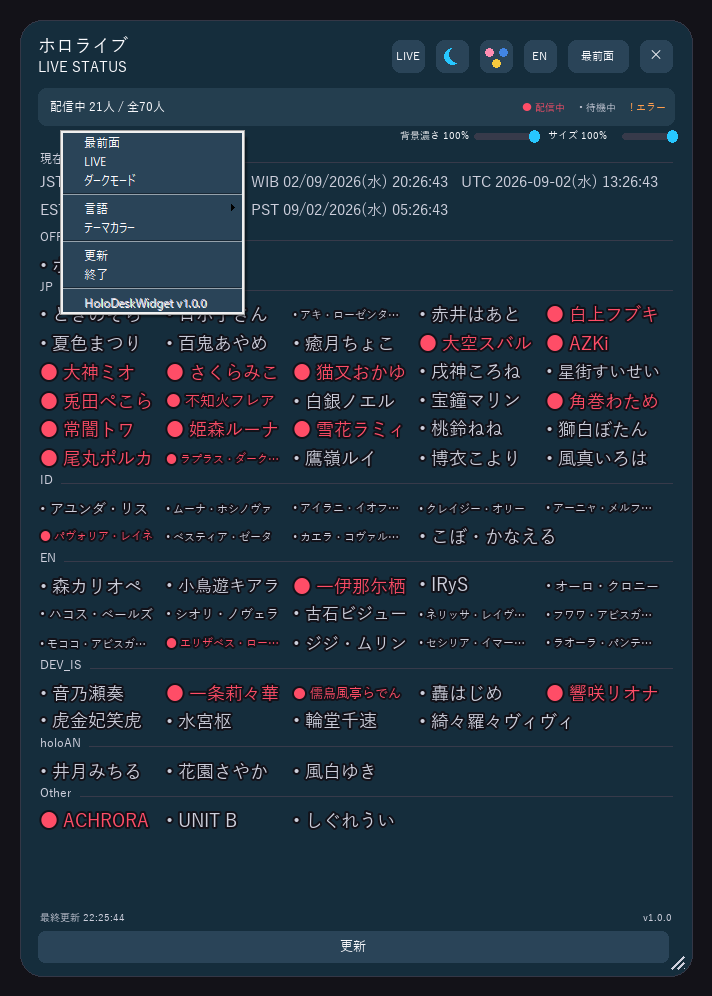
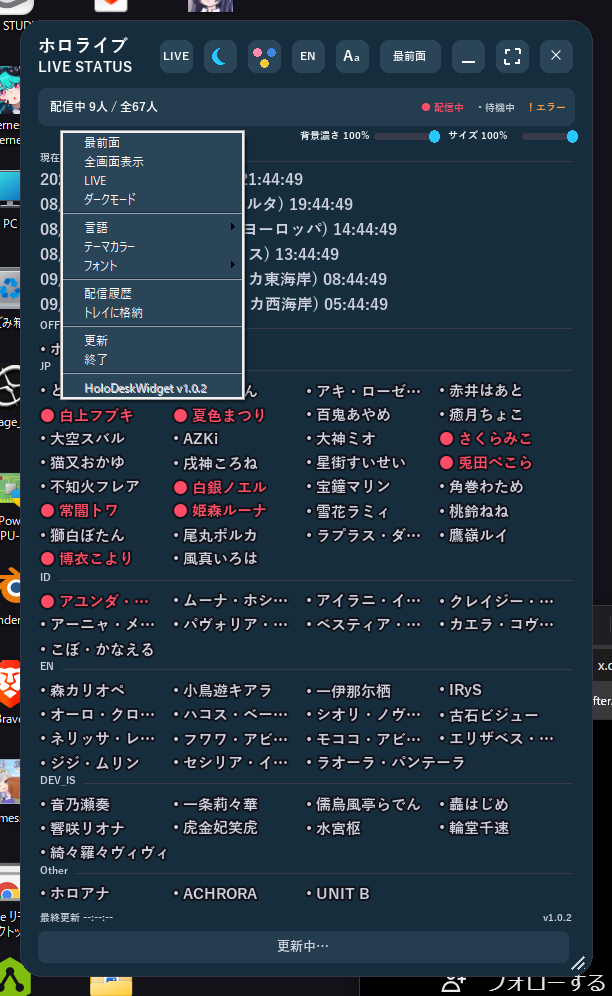
Add a screenshot-refresh skill and fix background bleed in capture_screenshots.py
Wraps tools/capture_screenshots.py so its shots always reflect
DEFAULT_SETTINGS instead of a developer's local settings.json, restoring
the original file afterward. Also fixes capture_screenshots.py itself:
declares DPI awareness, hides desktop icons for the capture (they sat
right under the widget's default x=40,y=40 position and showed through
its transparent corners since frozen_desktop only ever swapped the
wallpaper image), and shows an on-screen warning banner while it drives
the real mouse/keyboard.

diff --git a/tools/capture_screenshots.py b/tools/capture_screenshots.py
@@ -35,10 +35,23 @@ import subprocess
 import sys
 import tempfile
 import time
+import tkinter as tk
+import winreg
 from ctypes import wintypes
 from pathlib import Path
 
 from PIL import Image, ImageGrab
+
+# Must happen before any window/screen coordinates are touched below. Without
+# this, this process stays in Windows' legacy DPI-virtualized mode, where
+# GetWindowRect() and ImageGrab.grab() disagree on what a pixel is on any
+# display scaled above 100% -- the resulting bbox drifts from the widget's
+# real on-screen footprint, so captures bleed in whatever sits just outside
+# it (taskbar, other windows) instead of the frozen desktop color.
+try:
+    ctypes.windll.shcore.SetProcessDpiAwareness(2)  # PROCESS_PER_MONITOR_DPI_AWARE
+except (AttributeError, OSError):
+    ctypes.windll.user32.SetProcessDPIAware()
 
 ROOT = Path(__file__).resolve().parent.parent
 sys.path.insert(0, str(ROOT))
@@ -77,6 +90,10 @@ user32.mouse_event.argtypes = [wintypes.DWORD, wintypes.DWORD, wintypes.DWORD,
                                 wintypes.DWORD, ctypes.c_void_p]
 user32.keybd_event.argtypes = [ctypes.c_ubyte, ctypes.c_ubyte, wintypes.DWORD, ctypes.c_void_p]
 user32.SystemParametersInfoW.argtypes = [wintypes.UINT, wintypes.UINT, wintypes.LPCWSTR, wintypes.UINT]
+user32.FindWindowW.argtypes = [ctypes.c_wchar_p, ctypes.c_wchar_p]
+user32.FindWindowW.restype = ctypes.c_void_p
+user32.SendMessageW.argtypes = [ctypes.c_void_p, ctypes.c_uint, wintypes.WPARAM, wintypes.LPARAM]
+user32.SendMessageW.restype = ctypes.c_ssize_t
 
 MOUSEEVENTF_LEFTDOWN = 0x0002
 MOUSEEVENTF_LEFTUP = 0x0004
@@ -92,6 +109,12 @@ SPIF_SENDCHANGE = 0x02
 # real system menu of this class, so it can be located and cropped precisely
 # instead of guessing how far the context-menu screenshot needs to extend.
 MENU_WINDOW_CLASS = "#32768"
+# WM_COMMAND id Explorer's Desktop context menu sends for "Show desktop
+# icons" -- posting it to Progman toggles that checkbox exactly like
+# right-clicking the desktop and choosing it does, since there's no direct
+# GetDesktopIconsVisible()-style Win32 call.
+WM_COMMAND = 0x0111
+PROGMAN_TOGGLE_ICONS = 0x7402
 
 
 def get_window_rect(hwnd):
@@ -176,6 +199,93 @@ class frozen_desktop:
             try:
                 os.remove(self.temp_path)
             except OSError:
+                pass
+        return False
+
+
+def _desktop_icons_hidden():
+    try:
+        with winreg.OpenKey(
+            winreg.HKEY_CURRENT_USER,
+            r"Software\Microsoft\Windows\CurrentVersion\Explorer\Advanced",
+        ) as key:
+            value, _ = winreg.QueryValueEx(key, "HideIcons")
+            return bool(value)
+    except OSError:
+        return False  # key/value absent -- icons are shown, Explorer's own default
+
+
+def _toggle_desktop_icons():
+    progman = user32.FindWindowW("Progman", None)
+    if progman:
+        user32.SendMessageW(progman, WM_COMMAND, PROGMAN_TOGGLE_ICONS, 0)
+
+
+class hidden_desktop_icons:
+    """Desktop icons (This PC, Recycle Bin, ...) live in Windows' default
+    top-left icon grid -- right where the widget's own default position
+    (x=40, y=40, see deskwidget_core/config.py's DEFAULT_SETTINGS) puts it.
+    frozen_desktop only swaps the wallpaper *image*; icons are a separate
+    layer Explorer always draws on top of it, so without this they show
+    straight through the widget's transparent rounded corners in every shot.
+    Toggles the same "Show desktop icons" state the Desktop right-click menu
+    does, and only restores it on exit if entering here actually changed
+    anything -- a no-op if icons were already hidden coming in, so this
+    never leaves the user's desktop in a different state than it found it.
+    """
+
+    def __enter__(self):
+        self.toggled = False
+        if not _desktop_icons_hidden():
+            _toggle_desktop_icons()
+            self.toggled = True
+            time.sleep(0.3)
+        return self
+
+    def __exit__(self, exc_type, exc, tb):
+        if self.toggled:
+            _toggle_desktop_icons()
+        return False
+
+
+class capture_warning_banner:
+    """A always-on-top strip pinned to the very top of the primary screen
+    (y=0 through HEIGHT) for the whole capture run, telling whoever is at the
+    keyboard not to touch the mouse/keyboard while this script drives real
+    input. HEIGHT is kept comfortably below DEFAULT_SETTINGS["y"] (40 -- see
+    deskwidget_core/config.py) so this can never overlap the widget's own
+    default top-left corner and bleed into any grabbed region, regardless of
+    where on screen the widget ends up being captured.
+    """
+
+    HEIGHT = 32
+    BG = "#c0392b"
+    FG = "white"
+    TEXT = ("自動操作でスクリーンショットを撮影中です。"
+            "完了するまでマウス・キーボードに触れないでください。")
+
+    def __enter__(self):
+        self.root = None
+        try:
+            self.root = tk.Tk()
+            self.root.overrideredirect(True)
+            self.root.attributes("-topmost", True)
+            width = self.root.winfo_screenwidth()
+            self.root.geometry(f"{width}x{self.HEIGHT}+0+0")
+            self.root.configure(bg=self.BG)
+            tk.Label(self.root, text=self.TEXT, bg=self.BG, fg=self.FG,
+                     font=("Yu Gothic UI", 11, "bold")).pack(expand=True)
+            self.root.update()
+        except tk.TclError as error:
+            print(f"warning: could not show the capture warning banner ({error})")
+            self.root = None
+        return self
+
+    def __exit__(self, exc_type, exc, tb):
+        if self.root is not None:
+            try:
+                self.root.destroy()
+            except tk.TclError:
                 pass
         return False
 
@@ -267,7 +377,7 @@ def main():
     time.sleep(INITIAL_SETTLE_SECONDS)
 
     lang_toggled = False
-    with frozen_desktop():
+    with capture_warning_banner(), hidden_desktop_icons(), frozen_desktop():
         print("Capturing Japanese (default) screenshots...")
         rect, img = capture_main(hwnd, "")
         capture_buttons(rect[2] - rect[0], img, "")

diff --git a/.claude/skills/screenshots/scripts/refresh_screenshots.py b/.claude/skills/screenshots/scripts/refresh_screenshots.py
@@ -1,0 +1,97 @@
+"""Refresh HoloDeskWidget's documentation screenshots with the app's default
+settings.json state, then put back whatever settings.json held before.
+
+tools/capture_screenshots.py drives whichever widget instance is already
+running (or launches one) with whatever settings.json it finds on disk --
+great for a real user, but it means the shots can end up reflecting a
+developer's own window position/theme/language instead of the default state
+docs/Readme*.html actually documents. This wrapper:
+
+  1. closes any already-running instance (so a stale process holding old
+     settings in memory can't shadow the reset file below),
+  2. moves settings.json aside so the next launch falls back to
+     deskwidget_core.config.DEFAULT_SETTINGS whole-cloth,
+  3. runs the real capture script,
+  4. closes the instance it started, and
+  5. restores the original settings.json untouched (or removes the file
+     again if there wasn't one to begin with).
+
+Mirrors how capture_screenshots.py itself freezes/restores the desktop
+wallpaper around the shots -- same idea, applied to settings.json.
+
+Windows only, same as capture_screenshots.py. Only targets the Holo variant
+(the only one capture_screenshots.py currently knows how to drive).
+"""
+
+import ctypes
+import shutil
+import subprocess
+import sys
+import tempfile
+import time
+from pathlib import Path
+
+ROOT = Path(__file__).resolve().parents[4]
+sys.path.insert(0, str(ROOT))
+
+from deskwidget_core import appconfig  # noqa: E402
+from variants.holo.profile import PROFILE  # noqa: E402
+
+appconfig.configure(PROFILE)
+
+from deskwidget_core.paths import SETTINGS_PATH, WINDOW_TITLE  # noqa: E402
+from deskwidget_core.single_instance import find_window  # noqa: E402
+
+CAPTURE_SCRIPT = ROOT / "tools" / "capture_screenshots.py"
+CLOSE_TIMEOUT_SECONDS = 5.0
+
+WM_CLOSE = 0x0010
+_user32 = ctypes.WinDLL("user32", use_last_error=True)
+_user32.PostMessageW.argtypes = [ctypes.c_void_p, ctypes.c_uint, ctypes.c_void_p, ctypes.c_void_p]
+
+
+def close_widget_if_running():
+    """Best-effort close: posts WM_CLOSE to the widget's window (the same
+    message Windows sends on Alt+F4) and waits for the window to disappear.
+    A no-op if nothing is running."""
+    hwnd = find_window(WINDOW_TITLE, timeout=0)
+    if not hwnd:
+        return
+    _user32.PostMessageW(hwnd, WM_CLOSE, None, None)
+    deadline = time.monotonic() + CLOSE_TIMEOUT_SECONDS
+    while find_window(WINDOW_TITLE, timeout=0) and time.monotonic() < deadline:
+        time.sleep(0.2)
+
+
+def main():
+    if sys.platform != "win32":
+        raise SystemExit("This only runs on Windows.")
+
+    print("Closing any already-running HoloDeskWidget instance...")
+    close_widget_if_running()
+
+    backup_dir = Path(tempfile.mkdtemp(prefix="holodesk_settings_backup_"))
+    backup_path = backup_dir / "settings.json"
+    had_settings = SETTINGS_PATH.exists()
+    if had_settings:
+        shutil.move(str(SETTINGS_PATH), str(backup_path))
+        print("Set aside your current settings.json (restoring it when done).")
+    else:
+        print("No existing settings.json -- already starting from defaults.")
+
+    try:
+        print("Capturing with default settings...")
+        subprocess.run([sys.executable, str(CAPTURE_SCRIPT)], cwd=str(ROOT), check=True)
+    finally:
+        print("Closing the widget instance this launched...")
+        close_widget_if_running()
+        if had_settings:
+            shutil.move(str(backup_path), str(SETTINGS_PATH))
+            print("Restored your original settings.json.")
+        else:
+            SETTINGS_PATH.unlink(missing_ok=True)
+        backup_dir.rmdir()
+
+
+if __name__ == "__main__":
+    main()

diff --git a/.claude/skills/screenshots/SKILL.md b/.claude/skills/screenshots/SKILL.md
@@ -1,0 +1,105 @@
+---
+name: screenshots
+description: Refresh HoloDeskWidget's documentation screenshots/GIF (main.png, buttons.png, context_menu.png, live_ticker.gif, plus their _en counterparts) in variants/holo/docs/screenshots/, captured against the app's default settings.json state rather than whatever a developer's local window position/theme/language happens to be. Use whenever the user asks to update, refresh, retake, or regenerate the screenshots or the live ticker GIF, or "スクリーンショットを更新" / "スクショ撮り直し" and similar Japanese phrasing. Windows-only and Holo-variant-only (VT isn't wired up yet); moves the real mouse and briefly swaps the desktop wallpaper, so confirm with the user before running and ask them not to touch the mouse/keyboard while it's in progress.
+---
+
+# HoloDeskWidget screenshot refresh
+
+`tools/capture_screenshots.py` (see its own docstring for full detail) already
+launches or attaches to the widget, drives it with real mouse/keyboard input,
+and saves `main`/`buttons`/`context_menu` (+ `_en`) plus `live_ticker.gif`
+into `variants/holo/docs/screenshots/`. Left on its own it captures whatever
+`variants/holo/settings.json` currently holds -- which for a developer
+running the app locally is very likely *not* the default window
+position/theme/language that `docs/Readme.html` is meant to depict.
+
+This skill runs that script wrapped so the capture always reflects
+`deskwidget_core.config.DEFAULT_SETTINGS`, then puts the developer's own
+`settings.json` back exactly as it was.
+
+`tools/capture_screenshots.py` picked up three fixes the first time this
+skill actually ran end to end:
+
+- **DPI awareness** (`SetProcessDpiAwareness`, called before any
+  window/screen coordinate is touched) -- harmless and correct regardless,
+  though it turned out not to be the real cause of the bleed below.
+- **Desktop icons hidden for the duration** (`hidden_desktop_icons`, toggled
+  the same way the Desktop right-click menu's "Show desktop icons" does).
+  This was the actual cause: the widget's default position is `x=40, y=40`
+  (see `DEFAULT_SETTINGS` in `deskwidget_core/config.py`) -- right on top of
+  Windows' default top-left desktop icon grid. `frozen_desktop` only ever
+  swapped the *wallpaper image*; icons are a separate layer Explorer always
+  draws on top of it, so they showed straight through the widget's
+  transparent rounded corners in every shot regardless of the wallpaper
+  fix. Only restores icon visibility on exit if it actually hid them (a
+  no-op if the user already had icons hidden).
+- **A red always-on-top warning banner** pinned across the very top of the
+  screen (y=0..32, safely above the widget's y=40 default top edge so it can
+  never bleed into a grabbed region itself) reading "自動操作でスクリーンショット
+  を撮影中です。完了するまでマウス・キーボードに触れないでください。" for the whole
+  capture -- the script drives the real mouse/keyboard for ~20-40s and
+  someone at the machine needs an obvious, on-screen cue beyond terminal
+  output they may not be looking at.
+
+## Before running
+
+- **Confirm with the user first.** This takes over the real mouse cursor,
+  right-clicks and clicks buttons on the actual desktop, and briefly swaps
+  the wallpaper to a flat color (restored after). Tell them roughly what
+  will happen and ask them not to use the mouse/keyboard until it's done
+  (well under a minute).
+- **Holo only.** `tools/capture_screenshots.py` is hardcoded to the Holo
+  variant (`variants/holo/...`). If the user asks for VT screenshots, say
+  that the capture script would need to be re-pointed at `variants/vt`
+  first (its own docstring names the constants: `PROFILE`, `LAUNCH_SCRIPT`,
+  `OUT_DIR`) -- that's a code change beyond what this skill does on its own;
+  ask before making it.
+- Must run on Windows in a normal interactive desktop session (not a
+  remote/headless one) -- this repo's environment already is one.
+
+## Running it
+
+From the repo root, via the **PowerShell tool** (not Bash) -- it's driving a
+real GUI on the interactive desktop, same reasoning as `release_widget.bat`
+in the release skill:
+
+```
+python .claude\skills\screenshots\scripts\refresh_screenshots.py
+```
+
+This wrapper (`.claude/skills/screenshots/scripts/refresh_screenshots.py`):
+
+1. Closes any HoloDeskWidget instance already running, so a stale process
+   holding old settings in memory can't shadow the reset below.
+2. Moves `variants/holo/settings.json` aside (if present) so the next
+   launch falls back to `DEFAULT_SETTINGS` whole-cloth.
+3. Runs `tools/capture_screenshots.py`, which launches the widget fresh,
+   waits for its initial live-status refresh to settle, captures the
+   Japanese shots, captures the live-only ticker GIF, switches to English
+   and captures those, then switches back to Japanese.
+4. Closes the instance it started.
+5. Restores the original `settings.json` untouched (or deletes the file
+   again if there wasn't one to begin with) -- the developer's own local
+   window position/theme/language/etc. are never permanently changed.
+
+If it fails partway through, the `finally` block still closes the widget and
+restores `settings.json` -- check the printed output for which step failed.
+
+## After running
+
+- Report which files under `variants/holo/docs/screenshots/` changed
+  (`git status` or `git diff --stat` on that directory).
+- `live_ticker.gif` only shows visible scrolling if at least one tracked
+  talent is actually live with a long enough title at capture time -- if it
+  looks static, say so and offer to re-run.
+- **This does not touch `variants/holo/docs/Readme.html` /
+  `Readme.en.html`.** Those embed screenshots as inline base64 and nothing
+  in this repo re-generates that embedding automatically (see the release
+  skill's notes on those files) -- updating the PNGs/GIF alone is the whole
+  scope of this skill. If the user also wants the manual pages' embedded
+  copies refreshed, that's a separate, currently-manual step -- flag it
+  rather than attempting it.
+- These screenshot files are tracked in git (unlike `settings.json`, which
+  is gitignored) -- after confirming the new shots look right, tell the user
+  they changed and ask whether to commit, same as the release skill does for
+  its version-bump files. Don't commit automatically.
